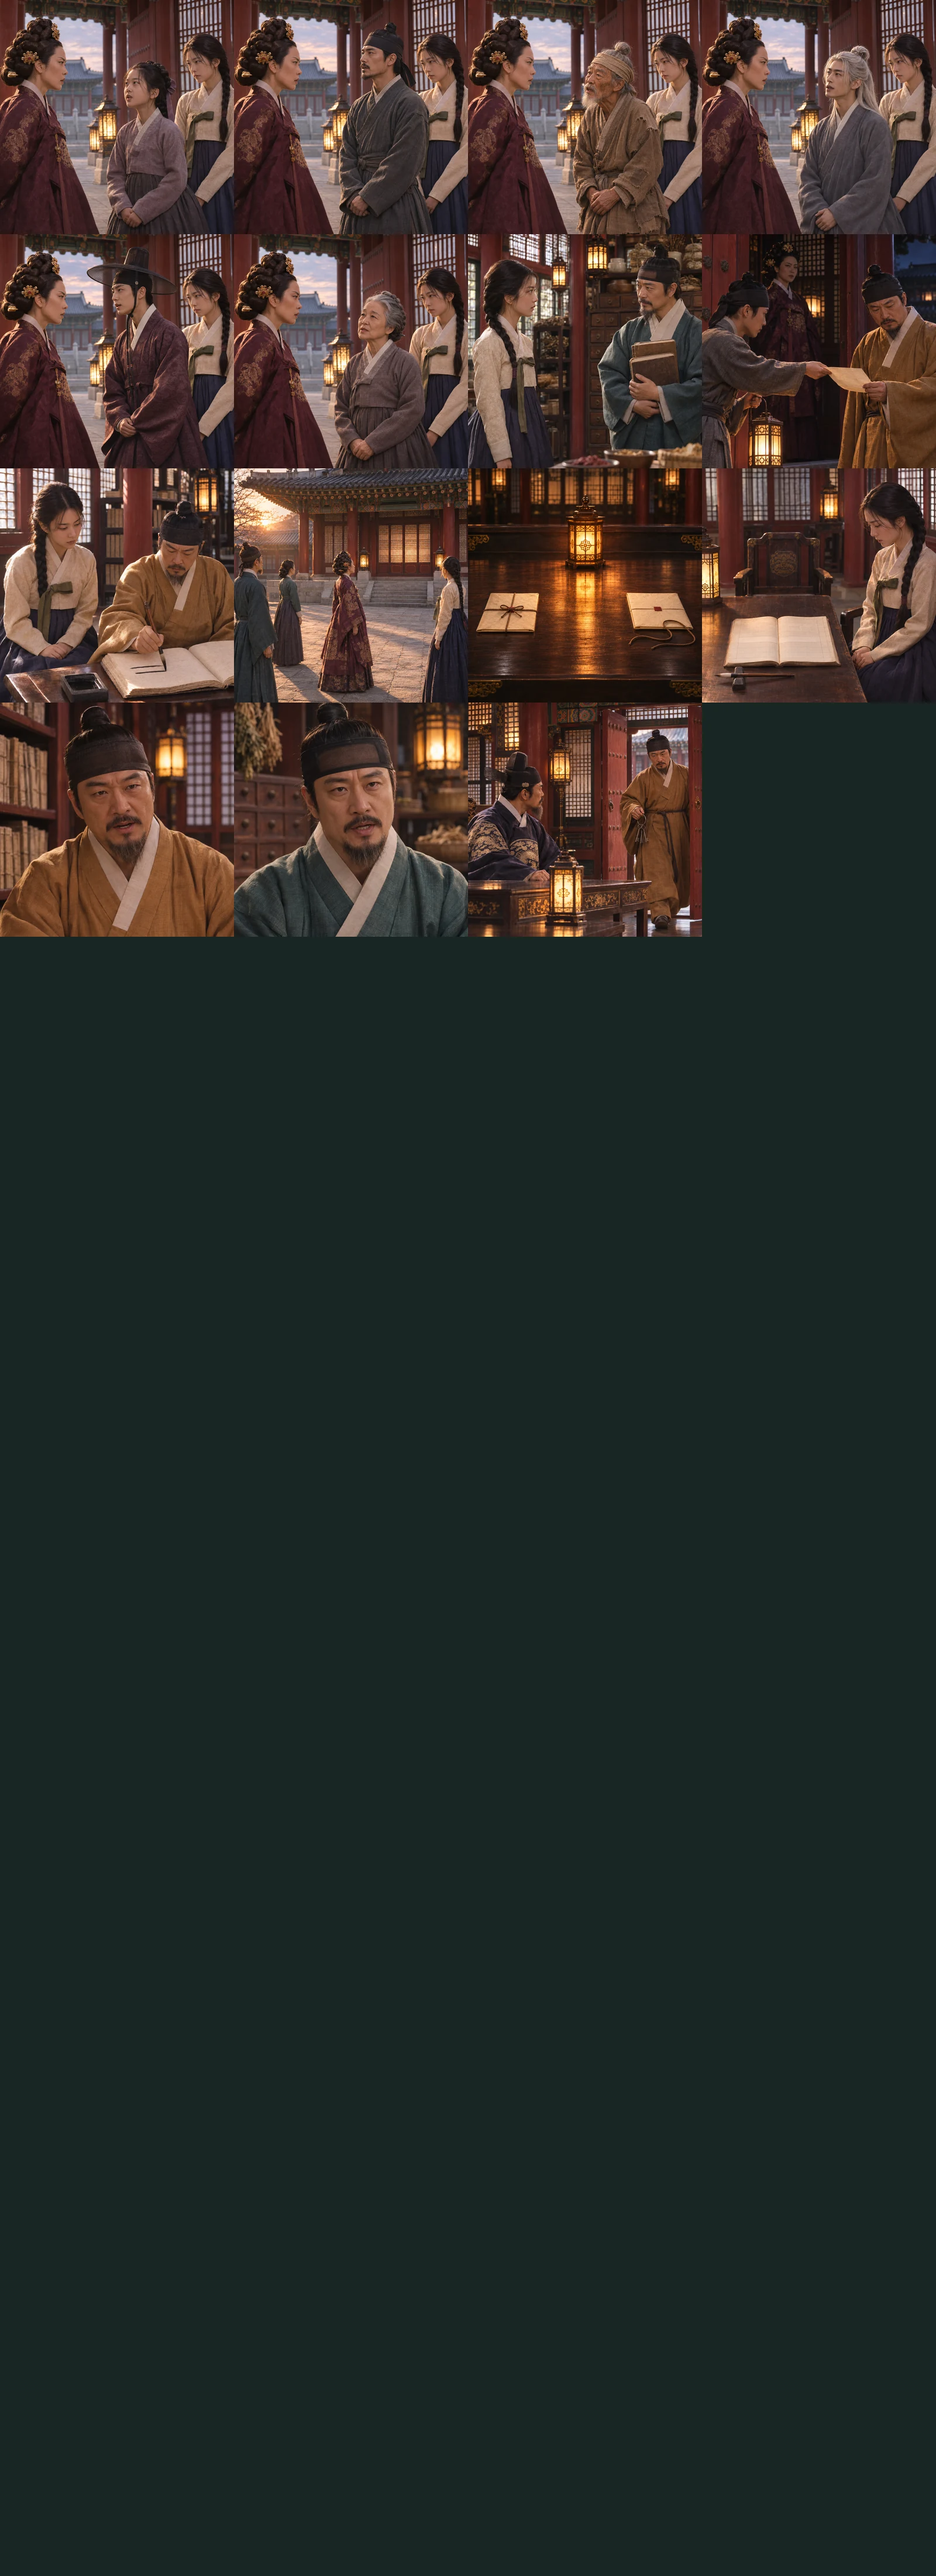
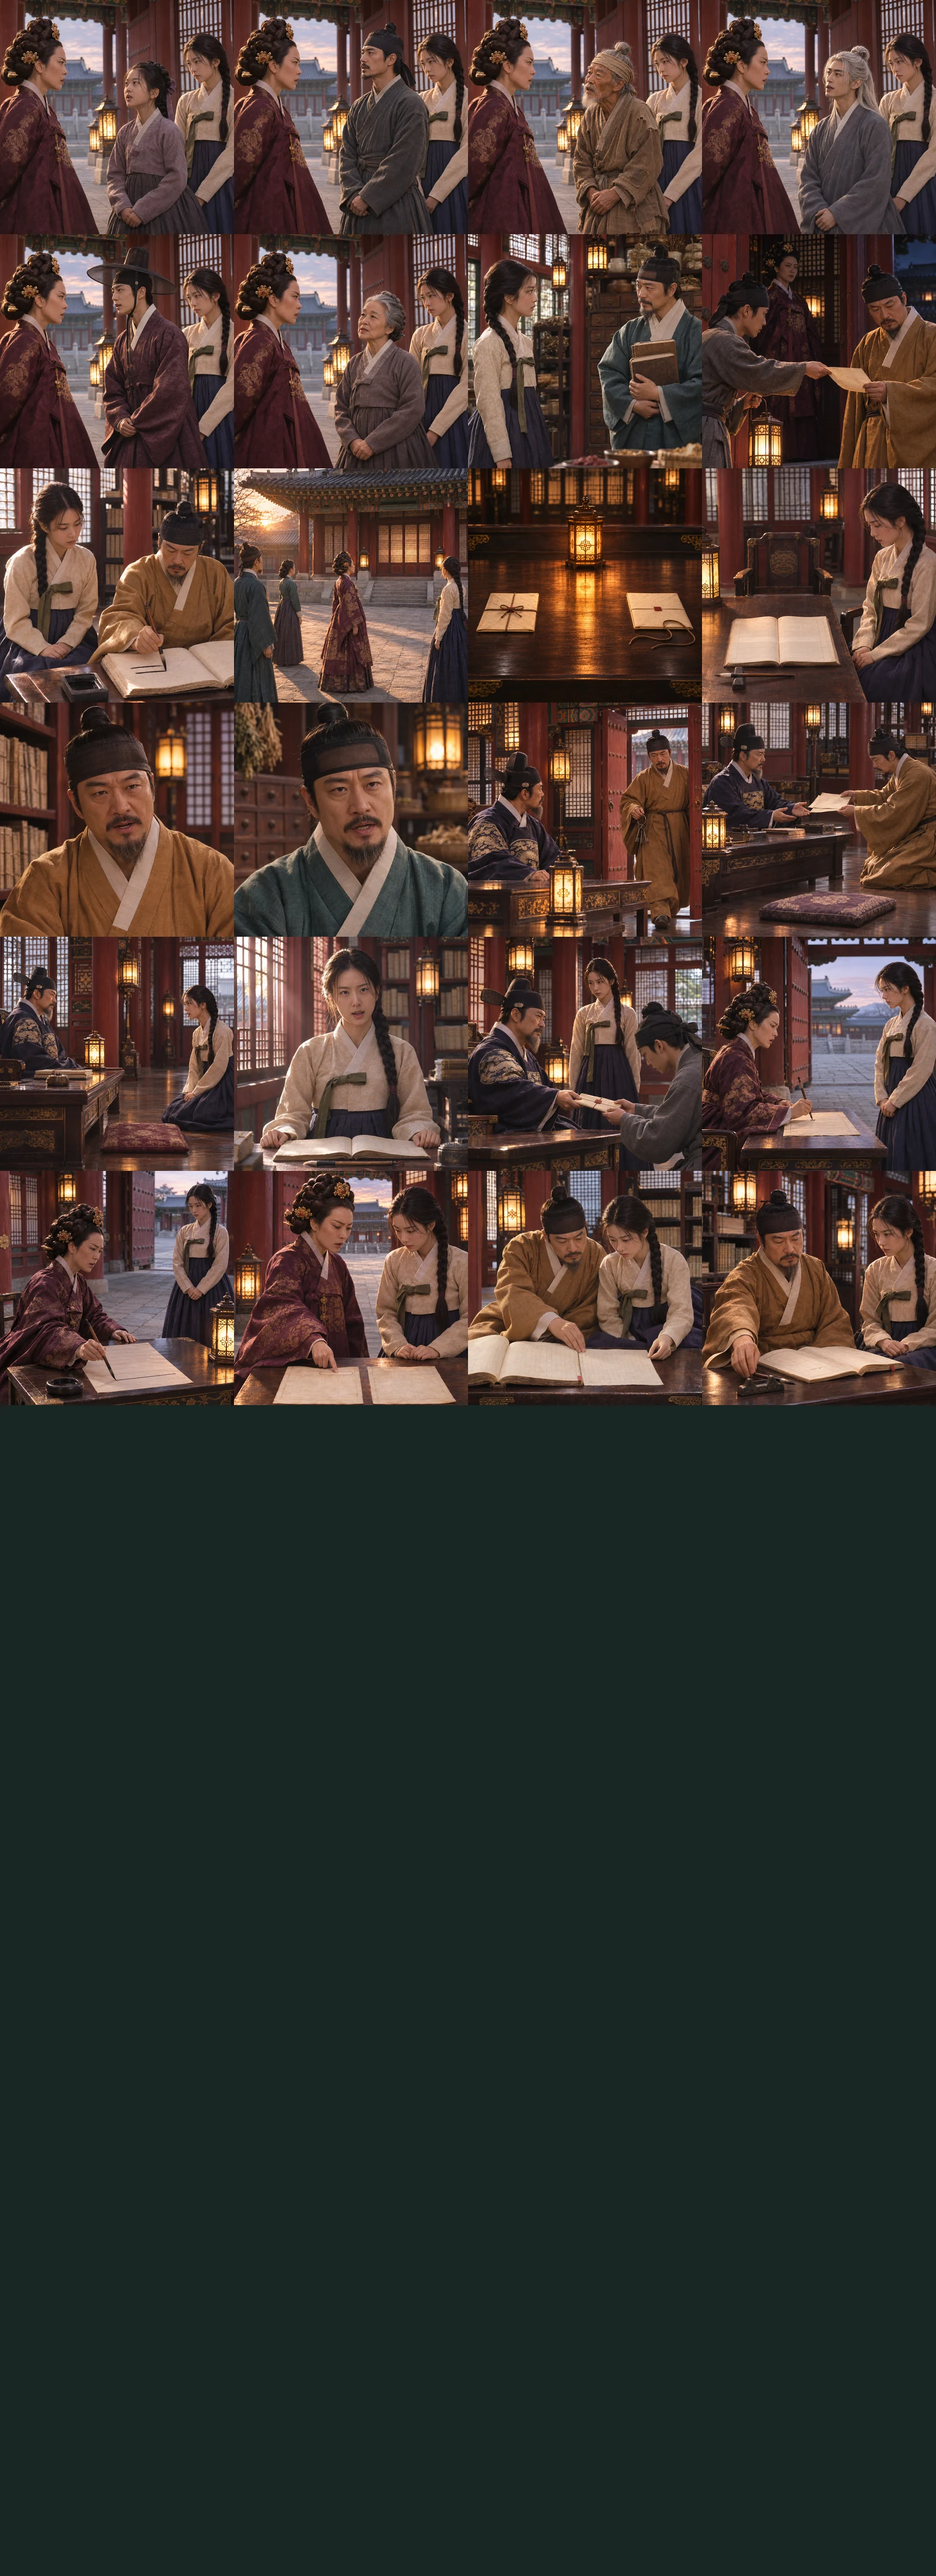
새 컷 S1-16, S3-16~24 반영
S1-16은 구휼소 뒤편에서 손 모양이 어긋났던 옛 칸을 대신한다. 모두 검수 통과.

Claude-Session: https://claude.ai/code/session_01VZgG2bX25gLRz4FyidLT13

Changed region(s): [[0.0, 0.2491, 1.0, 0.5605]]

diff --git a/site/season-3-new-slots.js b/site/season-3-new-slots.js
@@ -1,3 +1,3 @@
 // tools/build-new-cuts.py가 만든다. season-3-new.webp에 실제로 들어간 새 컷과 칸 번호.
-var NEW_CUT_SLOTS_3 = {'S3-01':0,'S3-02':1,'S3-03':2,'S3-04':3,'S3-05':4,'S3-06':5,'S3-07':6,'S3-08':7,'S3-09':8,'S3-10':9,'S3-11':10,'S3-12':11,'S3-13':12,'S3-14':13,'S3-15':14};
+var NEW_CUT_SLOTS_3 = {'S3-01':0,'S3-02':1,'S3-03':2,'S3-04':3,'S3-05':4,'S3-06':5,'S3-07':6,'S3-08':7,'S3-09':8,'S3-10':9,'S3-11':10,'S3-12':11,'S3-13':12,'S3-14':13,'S3-15':14,'S3-16':15,'S3-17':16,'S3-18':17,'S3-19':18,'S3-20':19,'S3-21':20,'S3-22':21,'S3-23':22,'S3-24':23};
 var NEW_CUT_ROWS_3 = 11;

diff --git a/site/season-1-new-slots.js b/site/season-1-new-slots.js
@@ -1,2 +1,2 @@
 // tools/build-new-cuts.py가 만든다. season-1-new.webp에 실제로 들어간 새 컷과 칸 번호.
-var NEW_CUT_SLOTS_1 = {'S1-01':0,'S1-02':1,'S1-03':2,'S1-04':3,'S1-05':4,'S1-06':5,'S1-07':6,'S1-08':7,'S1-09':8,'S1-10':9,'S1-11':10,'S1-12':11,'S1-13':12,'S1-14':13,'S1-15':14};
+var NEW_CUT_SLOTS_1 = {'S1-01':0,'S1-02':1,'S1-03':2,'S1-04':3,'S1-05':4,'S1-06':5,'S1-07':6,'S1-08':7,'S1-09':8,'S1-10':9,'S1-11':10,'S1-12':11,'S1-13':12,'S1-14':13,'S1-15':14,'S1-16':15};
